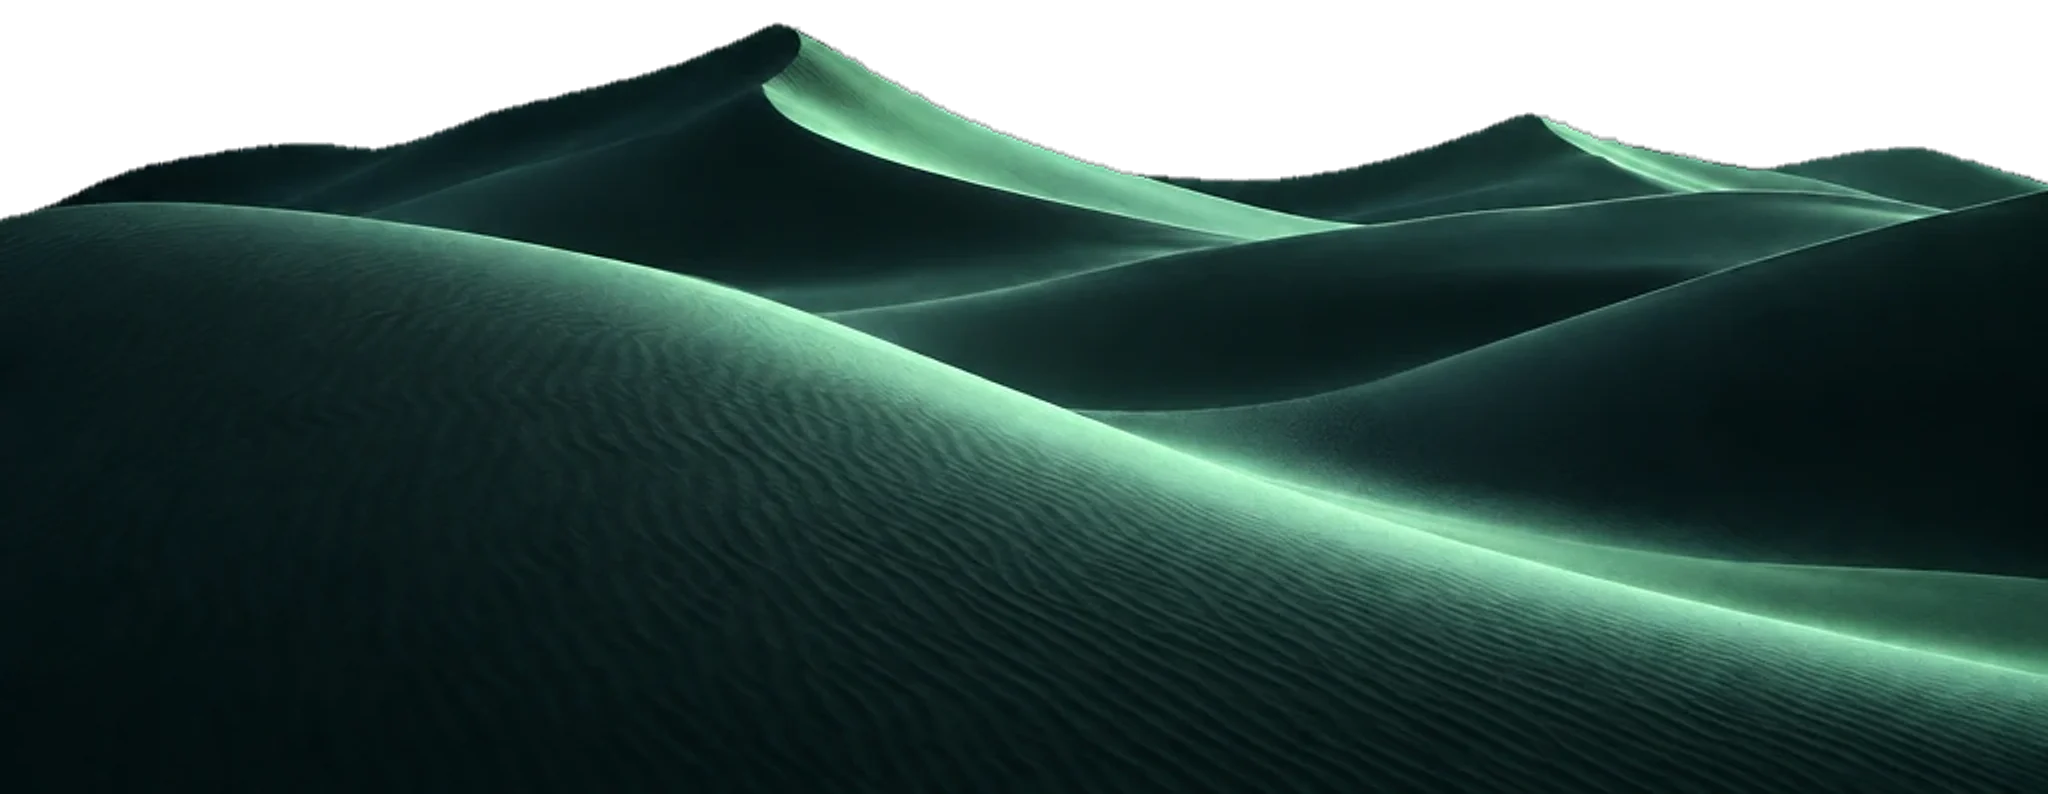
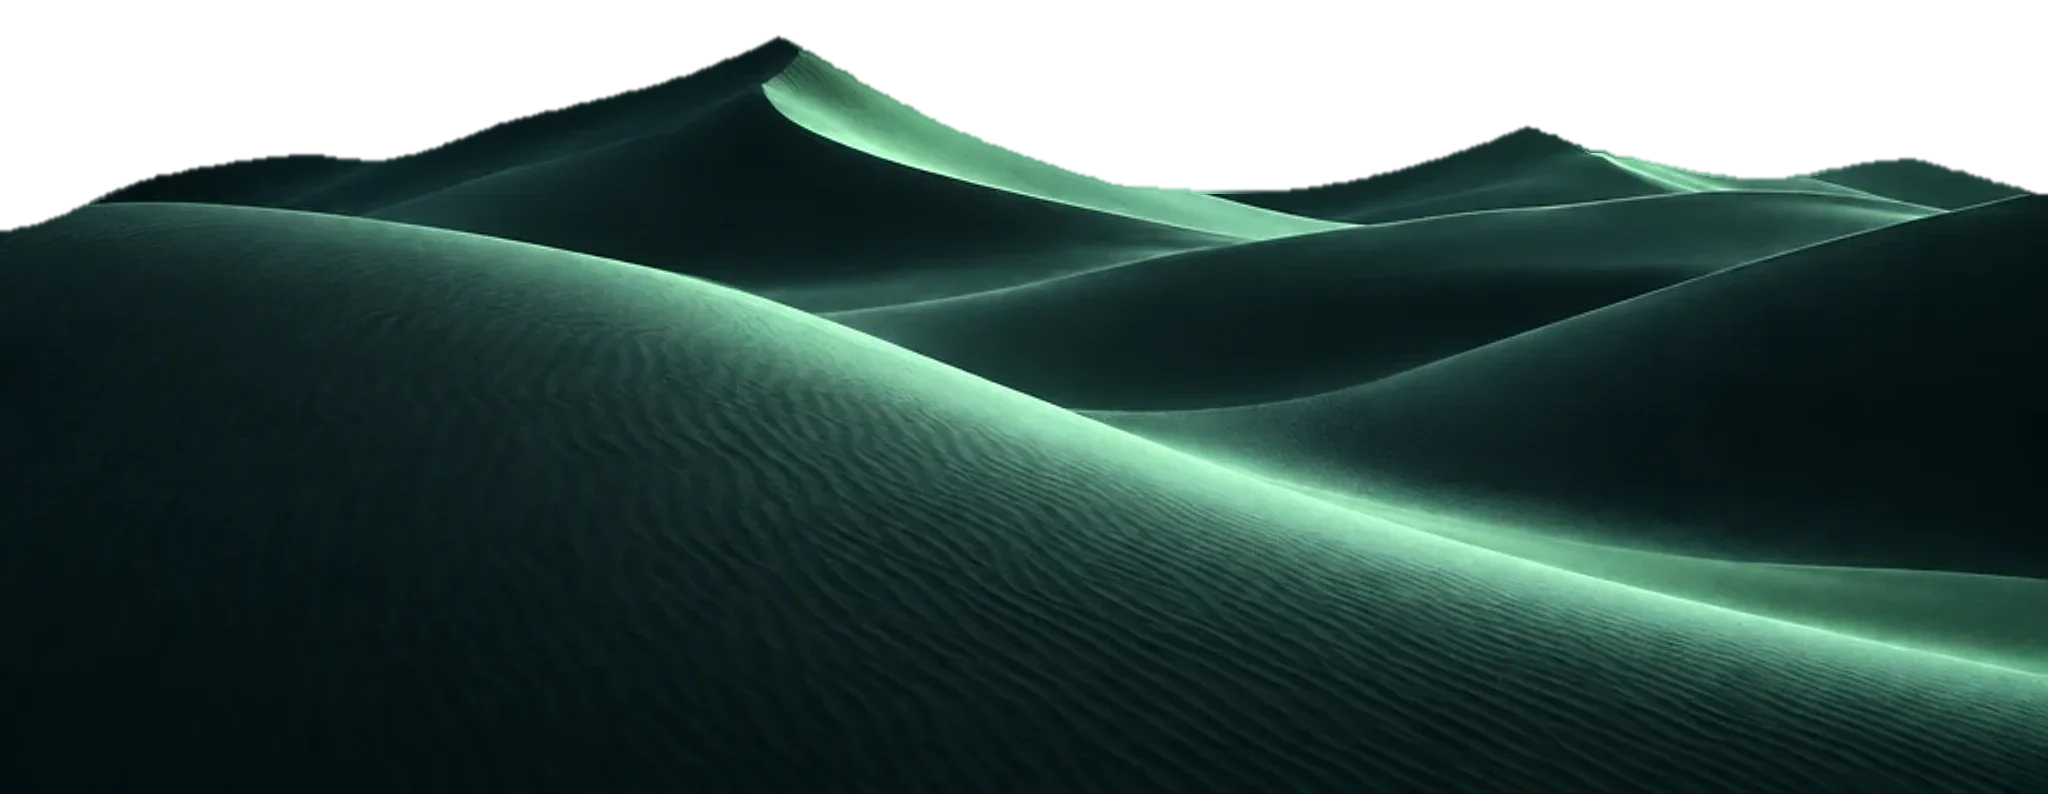
Fix dune parallax and hero landscape clipping; sharpen 3P messaging
- Final CTA: rebuild dunes as two parallax planes sized to the image's
  aspect and anchored below the section edge, so crests are never
  cropped and scrolling never exposes a gap. Add a soft horizon glow.
- Re-key cta-terrain edge (shrink mask, bleed colour outward) to remove
  the checkerboard fringe; serve alpha cut-outs unoptimized so edges
  are not re-encoded.
- Hero: ridges keep their full crest and dissolve via mask instead of a
  hard seam; the grass valley now sits behind the product, anchored to
  it, so the mockup is never covered.
- Footer wordmark: gradient fill instead of text-stroke overlap artifacts.
- Copy: hero lede and manifesto lead with the pain before the promise.

Claude-Session: https://claude.ai/code/session_01X3gPfbeXzJEasVnwYCDZPi

Changed region(s): [[0.0, 0.0302, 0.5312, 0.3023], [0.5312, 0.1209, 1.0, 0.2418]]

diff --git a/components/sections/hero.tsx b/components/sections/hero.tsx
@@ -22,7 +22,7 @@ export function Hero() {
   // Depth planes: each moves at its own rate
   const skyY = useTransform(p, [0, 1], ['0%', '22%'])
   const farY = useTransform(p, [0, 1], ['0%', '10%'])
-  const nearY = useTransform(p, [0, 1], ['0%', '-3%'])
+  const nearY = useTransform(p, [0, 1], ['0%', '-8%'])
   const copyY = useTransform(p, [0, 0.5], [0, -90])
   const copyOpacity = useTransform(p, [0, 0.38], [1, 0])
   const copyBlur = useTransform(p, [0, 0.38], ['blur(0px)', 'blur(10px)'])
@@ -55,7 +55,7 @@ export function Hero() {
   const still = !!reduce
 
   return (
-    <section ref={ref} id="top" className="relative isolate overflow-hidden pb-[clamp(40px,8vw,120px)]">
+    <section ref={ref} id="top" className="relative isolate overflow-hidden">
       {/* Plane 0: sky */}
       <motion.div className="absolute inset-0 -z-30" style={still ? undefined : { y: skyY, x: skyX }}>
         <ArtSlot asset={assets.heroSky} priority fallback={<NightSky />} />
@@ -67,9 +67,9 @@ export function Hero() {
         style={{ background: 'radial-gradient(ellipse at top, rgba(92,255,176,0.09) 0%, transparent 70%)' }}
       />
 
-      {/* Plane 1: far ridges */}
+      {/* Plane 1: far ridges. Crest kept whole (top-anchored), bottom dissolves via mask so no seam shows. */}
       <motion.div
-        className="pointer-events-none absolute inset-x-[-6%] bottom-[14%] -z-10 h-[34%] md:bottom-[12%] md:h-[36%]"
+        className="pointer-events-none absolute inset-x-[-6%] bottom-[16%] -z-10 aspect-[2048/690] min-h-[300px] [mask-image:linear-gradient(to_bottom,black_55%,transparent)] md:bottom-[14%]"
         style={still ? undefined : { y: farY, x: farX }}
         initial={{ opacity: 0, y: 60 }}
         animate={{ opacity: 1, y: 0 }}
@@ -77,7 +77,9 @@ export function Hero() {
       >
         <ArtSlot
           asset={assets.heroRidges}
-          className="brightness-[0.6] saturate-[1.15]"
+          unoptimized
+          objectPosition="center top"
+          className="brightness-[0.55] saturate-[1.15]"
           fallback={
             <div className="relative h-full w-full">
               <Ridge seed={11} height={600} base={0.5} amp={0.2} hills={1.1} octaves={3} roughness={0.38} top="#12342a" bottom="#05100c" rim={0.25} className="absolute inset-0 opacity-60" />
@@ -85,7 +87,6 @@ export function Hero() {
             </div>
           }
         />
-        <div className="absolute inset-x-0 bottom-0 h-1/2 bg-gradient-to-b from-transparent to-[#020304]/80" />
       </motion.div>
 
       {/* Copy */}
@@ -110,8 +111,8 @@ export function Hero() {
           animate={{ opacity: 1, y: 0, filter: 'blur(0px)' }}
           transition={{ duration: 1, ease: EASE, delay: 0.55 }}
         >
-          Hand-built prompts and chains, each tagged with the harness it runs in and the model it was tuned for. Start from something
-          that already works.
+          Stop rewriting prompts that only half work. Promptful is a hand-built library of tested prompts and chains, each tagged with
+          the tool it runs in and the model it was tuned for.
         </motion.p>
         <motion.div
           className="mt-9 flex w-full max-w-[340px] flex-col items-stretch gap-3 sm:w-auto sm:max-w-none sm:flex-row sm:items-center"
@@ -130,8 +131,30 @@ export function Hero() {
         </motion.div>
       </motion.div>
 
-      {/* Plane 2: product */}
+      {/* Plane 2: product, resting in a grass valley (Plane 3) that sits behind it so nothing is covered */}
       <div className="container-x relative z-10 mt-[clamp(56px,8vw,96px)] [perspective:1800px]">
+        <motion.div
+          aria-hidden
+          className="pointer-events-none absolute left-[calc(50%-max(64vw,380px))] top-[calc(100%-clamp(150px,19vw,300px))] -z-10 aspect-[2048/732] w-[max(128vw,760px)]"
+          style={still ? undefined : { y: nearY, x: nearX }}
+          initial={{ opacity: 0, y: 80 }}
+          animate={{ opacity: 1, y: 0 }}
+          transition={{ duration: 1.8, ease: EASE, delay: 0.35 }}
+        >
+          <ArtSlot
+            asset={assets.heroForeground}
+            unoptimized
+            objectPosition="center top"
+            className="[mask-image:linear-gradient(to_bottom,black_70%,transparent)]"
+            fallback={
+              <div className="relative h-full w-full">
+                <Ridge seed={41} height={500} base={0.5} amp={0.13} hills={0.9} octaves={2} roughness={0.3} points={200} top="#0a1f18" bottom="#020304" rim={0.45} className="absolute inset-0" />
+                <Ridge seed={57} height={500} base={0.68} amp={0.1} hills={1.4} octaves={2} roughness={0.3} points={200} top="#05110d" bottom="#020304" rim={0.22} className="absolute inset-0" />
+              </div>
+            }
+          />
+        </motion.div>
+
         <motion.div
           className="relative mx-auto w-full max-w-[1120px] origin-bottom"
           style={still ? undefined : { rotateX: mockRotate, scale: mockScale, y: mockY, x: mockX }}
@@ -141,43 +164,30 @@ export function Hero() {
         >
           <motion.div style={still ? undefined : { rotateY: mockTiltY, rotateX: mockTiltX }} className="relative">
             <div className="module-glow absolute -inset-[3px] rounded-[22px] opacity-40 blur-xl" aria-hidden />
-            <div className="hidden md:block">
+            {/* contact shadow on the grass */}
+            <div
+              aria-hidden
+              className="absolute inset-x-[6%] -bottom-10 h-20 rounded-[50%] bg-black/80 blur-2xl"
+            />
+            <div className="relative hidden md:block">
               <ScaleToFit width={APP_W} height={APP_H}>
                 <AppWindow>
                   <LibraryScreen />
                 </AppWindow>
               </ScaleToFit>
             </div>
-            <div className="mx-auto w-[min(88vw,380px)] md:hidden">
+            <div className="relative mx-auto w-[min(88vw,380px)] md:hidden">
               <ScaleToFit width={PHONE_W} height={PHONE_H}>
                 <PhoneLibrary />
               </ScaleToFit>
             </div>
           </motion.div>
         </motion.div>
+        {/* room for the valley floor below the product */}
+        <div aria-hidden className="h-[clamp(110px,15vw,230px)]" />
       </div>
 
-      {/* Plane 3: near foreground, just clipping the product's bottom edge */}
-      <motion.div
-        className="pointer-events-none absolute inset-x-[-8%] -bottom-[2%] z-20 h-[15%] md:h-[18%]"
-        style={still ? undefined : { y: nearY, x: nearX }}
-        initial={{ opacity: 0, y: 80 }}
-        animate={{ opacity: 1, y: 0 }}
-        transition={{ duration: 1.8, ease: EASE, delay: 0.35 }}
-      >
-        <ArtSlot
-          asset={assets.heroForeground}
-          objectPosition="center 30%"
-          fallback={
-            <div className="relative h-full w-full">
-              <Ridge seed={41} height={500} base={0.5} amp={0.13} hills={0.9} octaves={2} roughness={0.3} points={200} top="#0a1f18" bottom="#020304" rim={0.45} className="absolute inset-0" />
-              <Ridge seed={57} height={500} base={0.68} amp={0.1} hills={1.4} octaves={2} roughness={0.3} points={200} top="#05110d" bottom="#020304" rim={0.22} className="absolute inset-0" />
-            </div>
-          }
-        />
-        <div className="absolute inset-x-0 bottom-0 h-2/3 bg-gradient-to-b from-transparent to-[#020304]" />
-      </motion.div>
-      <div className="pointer-events-none absolute inset-x-0 bottom-0 z-20 h-32 bg-gradient-to-b from-transparent to-[#020304]" />
+      <div className="pointer-events-none absolute inset-x-0 bottom-0 z-20 h-40 bg-gradient-to-b from-transparent to-[#020304]" />
     </section>
   )
 }

diff --git a/components/sections/final-cta.tsx b/components/sections/final-cta.tsx
@@ -12,17 +12,21 @@ export function FinalCta() {
   const ref = useRef<HTMLElement>(null)
   const reduce = useReducedMotion()
   const { scrollYProgress } = useScroll({ target: ref, offset: ['start end', 'end end'] })
-  const terrainY = useTransform(scrollYProgress, [0, 1], ['20%', '0%'])
+  // Dunes are anchored to the section's bottom edge and over-sized below it, so every
+  // parallax offset only hides more of the (dark) dune base, never exposes a gap or crops a crest.
+  const backY = useTransform(scrollYProgress, [0, 1], ['10%', '0%'])
+  const frontY = useTransform(scrollYProgress, [0, 1], ['22%', '0%'])
+  const glowOpacity = useTransform(scrollYProgress, [0.3, 1], [0, 1])
   const skyY = useTransform(scrollYProgress, [0, 1], ['-8%', '0%'])
 
   return (
-    <section ref={ref} className="relative isolate overflow-hidden">
+    <section ref={ref} className="relative isolate overflow-hidden [--dune-w:max(118vw,860px)] [--dune-h:calc(var(--dune-w)*794/2048)]">
       <motion.div className="absolute inset-0 -z-20" style={reduce ? undefined : { y: skyY }}>
         <NightSky intensity={0.9} />
       </motion.div>
       <div className="absolute inset-x-0 top-0 -z-10 h-48 bg-gradient-to-b from-[#020304] to-transparent" />
 
-      <div className="container-x relative flex flex-col items-center pb-[clamp(120px,13vw,190px)] pt-[clamp(96px,12vw,160px)] text-center">
+      <div className="container-x relative z-20 flex flex-col items-center pb-[calc(var(--dune-h)*0.5+40px)] pt-[clamp(96px,12vw,160px)] text-center">
         <SplitReveal
           className="display-lg max-w-[820px] text-balance"
           lines={[['Your next great prompt'], [{ text: 'is one reveal away.', className: 'text-mint-gradient pb-[0.14em]' }]]}
@@ -42,20 +46,44 @@ export function FinalCta() {
         </Reveal>
       </div>
 
-      {/* Low dune line along the bottom edge */}
-      <motion.div className="pointer-events-none absolute inset-x-[-4%] bottom-0 z-10 h-[clamp(84px,9.5vw,150px)]" style={reduce ? undefined : { y: terrainY }}>
+      {/* Horizon glow the dune crests catch */}
+      <motion.div
+        aria-hidden
+        className="pointer-events-none absolute inset-x-0 bottom-[calc(var(--dune-h)*0.1)] -z-10 h-[calc(var(--dune-h)*0.9)]"
+        style={reduce ? undefined : { opacity: glowOpacity }}
+      >
+        <div className="h-full w-full bg-[radial-gradient(50%_45%_at_50%_55%,rgba(92,255,176,0.16),transparent_100%)]" />
+      </motion.div>
+
+      {/* Back dune plane: mirrored, dimmer, slower */}
+      <motion.div
+        aria-hidden
+        className="pointer-events-none absolute bottom-[calc(var(--dune-h)*-0.38)] left-[calc(50%-var(--dune-w)*0.46)] z-0 h-[var(--dune-h)] w-[var(--dune-w)]"
+        style={reduce ? undefined : { y: backY }}
+      >
         <ArtSlot
           asset={assets.ctaTerrain}
-          objectPosition="center 20%"
-          fallback={
-            <div className="relative h-full w-full">
-              <Ridge seed={131} height={420} base={0.42} amp={0.3} hills={1.2} octaves={3} roughness={0.35} top="#0f2a21" bottom="#040b08" rim={0.7} className="absolute inset-0" />
-              <Ridge seed={149} height={420} base={0.62} amp={0.2} hills={1.8} octaves={3} roughness={0.35} top="#081711" bottom="#020304" rim={0.35} className="absolute inset-0" />
-            </div>
-          }
+          unoptimized
+          objectPosition="center top"
+          className="-scale-x-100 opacity-35 brightness-[0.5] saturate-[0.8]"
+          fallback={<Ridge seed={131} height={420} base={0.42} amp={0.3} hills={1.2} octaves={3} roughness={0.35} top="#0f2a21" bottom="#040b08" rim={0.5} className="absolute inset-0" />}
         />
-        <div className="absolute inset-x-0 bottom-0 h-1/2 bg-gradient-to-b from-transparent to-[#020304]" />
       </motion.div>
+
+      {/* Front dune plane */}
+      <motion.div
+        aria-hidden
+        className="pointer-events-none absolute bottom-[calc(var(--dune-h)*-0.5)] left-[calc(50%-var(--dune-w)*0.54)] z-10 h-[var(--dune-h)] w-[var(--dune-w)]"
+        style={reduce ? undefined : { y: frontY }}
+      >
+        <ArtSlot
+          asset={assets.ctaTerrain}
+          unoptimized
+          objectPosition="center top"
+          fallback={<Ridge seed={149} height={420} base={0.3} amp={0.2} hills={1.8} octaves={3} roughness={0.35} top="#0f2a21" bottom="#020304" rim={0.7} className="absolute inset-0" />}
+        />
+      </motion.div>
+      <div aria-hidden className="pointer-events-none absolute inset-x-0 bottom-0 z-10 h-[calc(var(--dune-h)*0.22)] bg-gradient-to-b from-transparent to-[#030405]" />
     </section>
   )
 }

diff --git a/components/sections/manifesto.tsx b/components/sections/manifesto.tsx
@@ -2,12 +2,13 @@ import { ScrubText } from '@/components/motion/primitives'
 
 const paragraphs = [
   {
-    text: 'Promptful is a curated library of production-ready prompts. Every one is written by hand, run before it ships, and tagged with the use case it solves.',
-    highlight: ['production-ready', 'written', 'by', 'hand'],
+    text: 'Most prompts you find are untested, untagged, and written for a model that shipped last year. So you paste, tweak, and hope it holds up in the tool you actually use.',
+    highlight: [],
+    className: 'text-white/55',
   },
   {
-    text: 'Each card tells you exactly where it runs, from Claude Code to Perplexity Comet, and which model it was tuned for. No guessing which window to paste into.',
-    highlight: [],
+    text: 'Promptful is a curated library of production-ready prompts, written by hand and run before they ship. Every card tells you where it runs, from Claude Code to Perplexity Comet, and which model it was tuned for.',
+    highlight: ['production-ready', 'written', 'by', 'hand'],
   },
   {
     text: 'When one prompt is not enough, chains string them into ordered, repeatable runs. You bring the work. The library brings the playbook.',
@@ -22,7 +23,7 @@ export function Manifesto() {
         <div className="mx-auto max-w-[760px]">
           <div className="space-y-[1.1em] text-[clamp(22px,2.6vw,34px)] font-semibold leading-[1.3] tracking-[-0.025em]">
             {paragraphs.map((p, i) => (
-              <ScrubText key={i} text={p.text} highlight={p.highlight} />
+              <ScrubText key={i} text={p.text} highlight={p.highlight} className={p.className} />
             ))}
           </div>
         </div>

diff --git a/components/sections/footer.tsx b/components/sections/footer.tsx
@@ -65,8 +65,9 @@ export function Footer() {
       </div>
       <div aria-hidden className="pointer-events-none select-none overflow-hidden">
         <div className="container-x">
-          <div className="translate-y-[18%] text-center text-[clamp(64px,19vw,260px)] font-black leading-[0.8] tracking-[-0.06em] text-transparent [-webkit-text-stroke:1px_rgba(255,255,255,0.06)]">
-            promptful<span className="[-webkit-text-stroke:1px_rgba(92,255,176,0.35)]">.</span>
+          <div className="translate-y-[18%] text-center text-[clamp(64px,19vw,260px)] font-black leading-[0.8] tracking-[-0.06em] text-transparent">
+            <span className="bg-gradient-to-b from-white/[0.07] to-white/0 bg-clip-text">promptful</span>
+            <span className="bg-gradient-to-b from-mint/40 to-mint/0 bg-clip-text">.</span>
           </div>
         </div>
       </div>

diff --git a/components/art/terrain.tsx b/components/art/terrain.tsx
@@ -181,6 +181,7 @@ export function ArtSlot({
   priority,
   sizes = '100vw',
   objectPosition = 'center',
+  unoptimized,
 }: {
   asset: Asset
   fallback: React.ReactNode
@@ -188,6 +189,8 @@ export function ArtSlot({
   priority?: boolean
   sizes?: string
   objectPosition?: string
+  /** Serve the file as-is. Use for alpha-keyed cut-outs: re-encoding smears their edges. */
+  unoptimized?: boolean
 }) {
   if (!asset.ready) return <>{fallback}</>
   return (
@@ -198,6 +201,7 @@ export function ArtSlot({
       height={asset.height}
       priority={priority}
       sizes={sizes}
+      unoptimized={unoptimized}
       className={cn('h-full w-full object-cover', className)}
       style={{ objectPosition }}
     />
